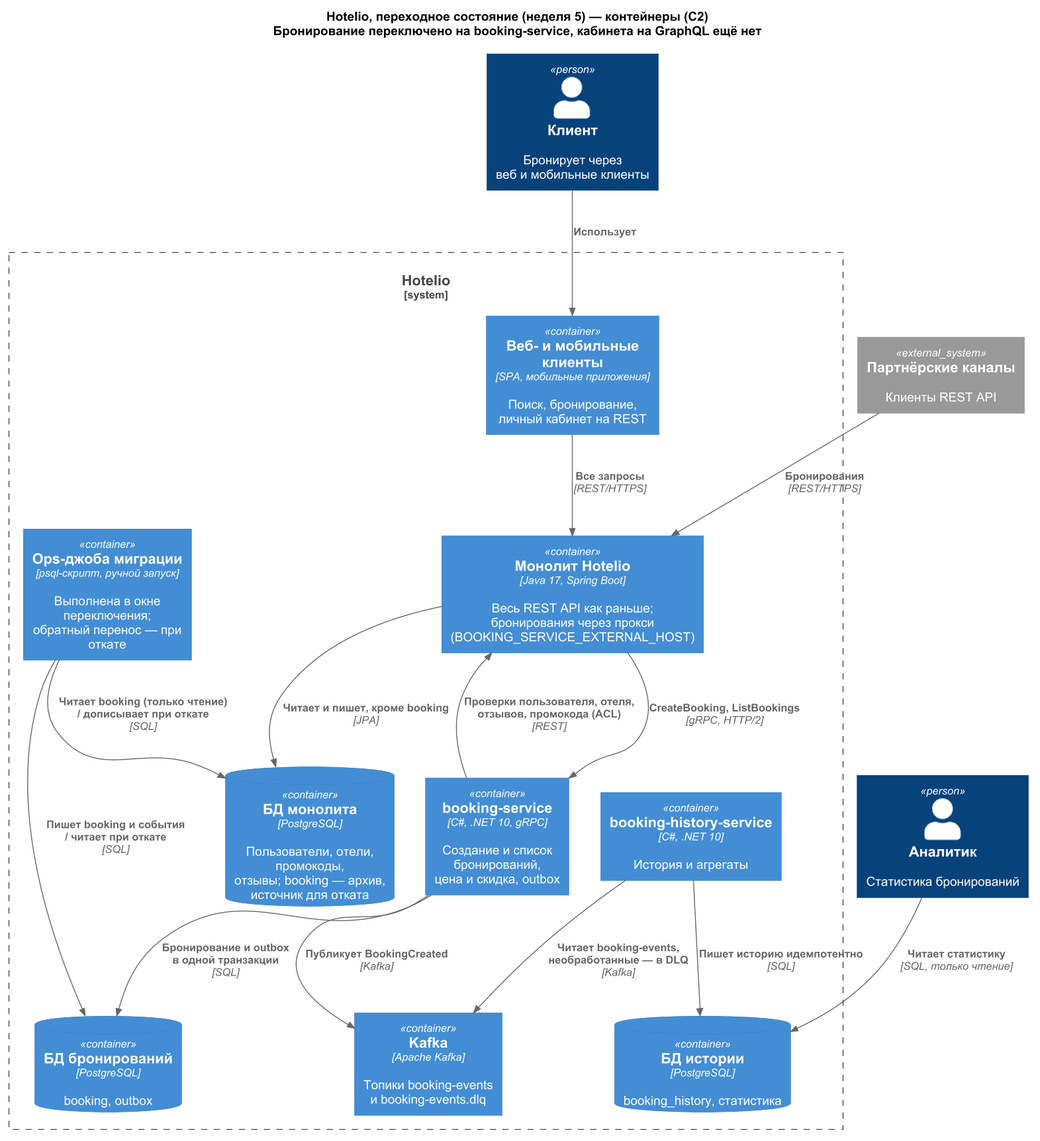
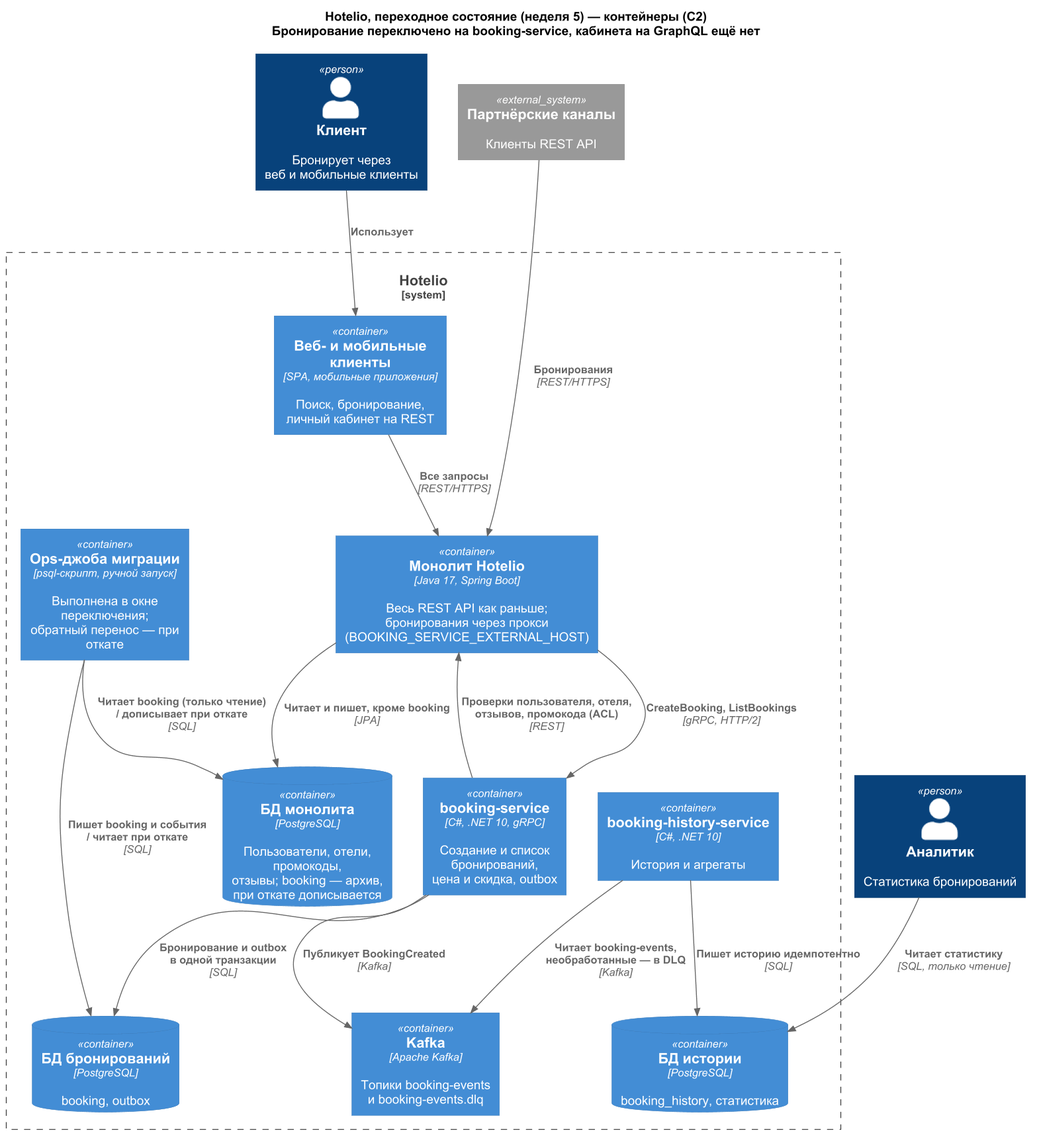
AI-LOG и схемы задания 1: решения автора по журналу, откат прокси через false, подписи без наложений

diff --git a/AI-LOG.md b/AI-LOG.md
@@ -6,20 +6,20 @@
 | :- | :- | :- |
 | Первый модуль | Согласился начать с бронирования: от него в монолите никто не зависит, а точка переключения уже есть — готовый gRPC-прокси | Разобрал код монолита, jar прокси и стенд, нашёл дефекты и расхождения с описанием (Н1–Н11 в ADR-001), подготовил ADR и схемы C4 |
 | Стек и сервисы | Выбрал C#/.NET вместо предложенной ИИ Java | Написал booking-service и booking-history-service, доработал регресс курса |
-| Перенос данных | Выбрал перенос ops-джобой с остановкой записи — по своему опыту переноса данных — и откат той же джобой; задал критерии отката по доле ошибок и задержке относительно базовой линии | Нашёл, что монолит не заполняет дату бронирования; написал джобу со сверкой и учения по переключению и откату |
-| События | Согласился на transactional outbox; перевёл dead letter из таблицы в топик Kafka и попросил очистку outbox отдельным фоновым процессом | Предложил outbox, написал отправку в Kafka, сервис истории, DLQ и очистку |
+| Перенос данных | Выбрал перенос ops-джобой с остановкой записи — по своему опыту переноса данных — и откат той же джобой; отклонил CDC: для отката понадобился бы второй поток в обратную сторону; задал критерии отката по доле ошибок и задержке относительно базовой линии | Нашёл, что монолит не заполняет дату бронирования; написал джобу со сверкой и учения по переключению и откату |
+| События | Согласился на transactional outbox; перевёл dead letter из таблицы в топик Kafka; решил чистить outbox отдельным фоновым процессом | Предложил outbox, написал отправку в Kafka, сервис истории, DLQ и очистку |
 | Тесты и пайплайн | Задал набор тестов и устройство пайплайна по своему рабочему проекту: юнит-тесты, интеграционные тесты, регресс курса как API-тесты в пайплайне, ручной выпуск в prod; выбрал Shouldly, Moq и AutoFixture | Предложил поднимать зависимости интеграционных тестов через Testcontainers и отстоял это в споре; написал тесты, джобы и скрипты проверок, выполнил прогоны |
 | Личный кабинет | Попросил перепроверить, правда ли у отелей нет названий, и выбрал `null` вместо выдуманных значений; выбрал `@override` по схеме задания | Проверил данные монолита, нашёл, что шлюз сам не передаёт заголовки подграфам; написал шлюз, три подграфа и тесты |
-| Kubernetes и Istio | Согласился с `failoverPriority` после того, как ИИ объяснил, почему повтор внутри subset v1 не переведёт запрос на v2 | Написал Helm-чарты, манифесты Istio и проверочные скрипты, выполнил прогоны |
-| Проверка | Разобрал работу на вопросах, оспорил спорные решения и формулировки, поручил ревью и отвечает за принятые решения | Объяснял решения, провёл ревью другими моделями, сверил отчёты с кодом и логами |
+| Kubernetes и Istio | Принял fallback через `failoverPriority` по результату на стенде: при погашенной v1 запросы обслуживает v2, а классический вариант с повтором внутри subset v1 отдаёт 503 | Написал Helm-чарты, манифесты Istio и проверочные скрипты, выполнил прогоны |
+| Проверка | Разобрал работу на вопросах, оспорил спорные решения и формулировки, поручил ревью на ошибки, глазами ревьюера курса и на качество кода; отвечает за принятые решения | Объяснял решения, провёл ревью другими моделями, сверил отчёты с кодом и логами |
 
-Например, Святослав не согласился оставить описанным ограничением то, что через прокси монолита `GET /api/bookings?userId=` отдаёт бронирования всех пользователей, и потребовал исправить: теперь публичный список отдаёт только свои бронирования, а полный список — служебный метод с токеном администратора и постраничным выводом. Он же решил хранить сообщения, которые не удалось обработать, в топике Kafka, а не в таблице: при выносе следующих модулей это общий приём, и переделывать не придётся.
+Например, Святослав не согласился оставить описанным ограничением то, что через прокси монолита `GET /api/bookings?userId=` отдаёт бронирования всех пользователей, и предложил решение: пользователь получает только свои бронирования, а полный список — отдельный служебный метод с проверкой прав и постраничным выводом. Так и сделано: служебный gRPC-метод `ListAllBookings` с токеном администратора и пагинацией, регресс читает им полный список и проверяет отказ без токена. Он же решил хранить сообщения, которые не удалось обработать, в топике Kafka, а не в таблице: при выносе следующих модулей это общий приём, и переделывать не придётся.
 
 Использованы Claude Opus 5.5 для основной работы, Codex и Qwen для части доработки; Fable 5.1 и Codex — для дополнительного ревью. Проверка другой моделью не является независимой экспертизой. Агенты также поднимали стенды и снимали логи и скриншоты для `results`.
 
 ## Проработка через объяснение и возражения
 
-После реализации ИИ составил 36 вопросов по заданиям: сначала объяснял, как и почему сделано, затем спрашивал суждение. Святослав отвечал голосом своими словами, оспаривал решения и сами вопросы, если они были сформулированы неясно.
+После реализации ИИ составил 36 вопросов по заданиям. По требованию Святослава каждый вопрос сначала объяснял, как и почему сделано, и только затем спрашивал суждение: так проверялись причины выбора, а не память на детали кода. Святослав отвечал голосом своими словами и оспаривал как решения, так и сами вопросы.
 
 | Инициатива Святослава | Изменение решения |
 | :- | :- |
@@ -30,25 +30,23 @@
 | Настоял, чтобы регресс курса и проверки на стенде были не скриптами сбоку, а частью пайплайна | Регресс курса стал отдельной тестовой джобой `test:api`: выкладка в staging ждёт её вместе с остальными тестами; учения на стенде — ручные джобы `ops:*` |
 | Попросил интеграционные тесты, Shouldly и имена джоб, как в своём рабочем проекте; предлагал поднимать PostgreSQL и Kafka для тестов сервисами пайплайна, но после спора согласился на Testcontainers: тесты нарочно ломают зависимости (замораживают Kafka, подсовывают неверный пароль) и на общих сервисах мешали бы друг другу | Интеграционные тесты outbox на Testcontainers, юнит-тесты на Shouldly, джобы `test:unit`, `test:integration`, `test:api` |
 | Предложил покрыть тестом путь, который ИИ предлагал оставить без теста: БД истории недоступна дольше повторов | Тест проверяет, что событие не подтверждено и читается снова |
-| Спросил, почему пользователи и отели берутся у монолита по REST, а не из Kafka | Оставили REST, как требует задание: проверки при бронировании нужны на текущий момент |
-| Попросил проверить код на слишком подробные комментарии | Описания классов сокращены до одной-двух строк |
-| Предложил описать в ADR команду через Kafka с сагой как альтернативу, спросил, почему базовая линия — неделя, предложил чинить в пределах окна, а отставание истории закрывать хотфиксом | В ADR-001 — новые альтернативы, критерии отката с SLI (доля 5xx, p95), ясное объяснение пустых дат |
-| Спросил, чем dead letter в таблице лучше топика, и решил перевести его в DLQ-топик Kafka; попросил фоновую очистку outbox, спросил про матрицу покрытия тестами | DLQ-топик `booking-events.dlq`, отдельный процесс очистки опубликованных событий, тесты на оба, таблица «что чем проверяется» в README задания 2 |
-| Возразил против значения переключателя прокси «по умолчанию» в docker-compose | Значение задано в `.env`, без неявной подстановки |
-| Не согласился оставлять как ограничение то, что `GET /api/bookings?userId=` отдаёт бронирования всех пользователей, — попросил починить, а не описать | Публичный список возвращает только бронирования запрошенного пользователя, как монолит; полный список отдаёт служебный gRPC-метод `ListAllBookings` с токеном и пагинацией (`booking-admin.proto`), регресс читает список им и проверяет отказ без токена |
+| Предложил описать в ADR команду через Kafka с сагой как альтернативу; потребовал обосновать базовую линию в неделю; предложил сначала прогнать перенос вхолостую, при упавшем регрессе чинить в пределах окна, а не откатывать сразу, и отставание истории закрывать хотфиксом без отката; оспорил, почему пустые даты закрываются обходом, а не исправлением | В ADR-001 — альтернатива с сагой; критерии отката по этапам (репетиция до окна, окно, первые сутки) с SLI — доля 5xx и p95 — и обоснованием недели; объяснение пустых дат переписано: у старых записей исходной даты нет, и исправление монолита её не вернёт |
+| Решил вынести очистку outbox в отдельный фоновый процесс; попросил матрицу покрытия тестами | Процесс очистки опубликованных событий с тестом; тест на DLQ-топик; таблица «что чем проверяется» в README задания 2 |
+| Возразил против значения переключателя прокси «по умолчанию» в docker-compose: значение должно задаваться явно | Значение задано в `.env`, без неявной подстановки |
 | Настоял на готовых библиотеках вместо самописных тестовых заготовок: их знают другие разработчики, и их не нужно поддерживать | Монолит в юнит-тестах подменяется через Moq, случайные тестовые данные даёт AutoFixture; самописные заглушки удалены |
+| Перед сдачей поручил отдельное ревью качества кода и потребовал убрать слишком подробные комментарии | Описания классов сокращены до одной-двух строк; настройки сервисов собраны в классы options, крупные классы разделены по ответственности, тесты доставки используют общий стенд |
 
 ИИ предложил заменить самописные ограничитель запросов к монолиту и кеш отелей в GraphQL на `p-limit` и `lru-cache` — Святослав согласился.
 
-ИИ сделал каркас решения и рутинную реализацию: код, тесты, скрипты и прогоны. Святослав вёл работу как владелец продукта: выбирал решения на развилках, спорил с теми, что считал неверными, и требовал объяснений там, где реализация была непонятна, — после этого её переделывали. На вопросах он своими словами объяснил стратегию переноса, outbox и доставку событий, защиту от дублей, пайплайн и выпуск в prod.
+ИИ сделал каркас решения и рутинную реализацию: код, тесты, скрипты и прогоны. Святослав вёл работу как владелец продукта: выбирал решения на развилках, спорил с теми, что считал неверными, требовал обоснований и добивался переделки, если они не убеждали. На вопросах он своими словами объяснил стратегию переноса, outbox и доставку событий, защиту от дублей, пайплайн и выпуск в prod.
 
 ## Сверка с заданием и ревью
 
-По поручению Святослава итоговую редакцию сверили с заданием и отдали на ревью другим моделям: на ошибки в коде, глазами ревьюера курса и на качество кода. Автор поручил внести обоснованные замечания: например, ошибки самой БД истории больше не уводят события в DLQ, а читаются снова; ответы подграфов не раскрывают клиенту внутренние ошибки; проверки Istio падают при неверном поведении. Не все замечания приняты: их проверяли по заданию и коду. Проверки другими моделями не гарантируют приёмку курса.
+По поручению Святослава итоговую редакцию сверили с заданием и отдали на ревью другим моделям: на ошибки в коде, глазами ревьюера курса и на качество кода. Автор поручил внести обоснованные замечания: например, ошибки самой БД истории больше не уводят события в DLQ, а читаются снова; ответы подграфов не раскрывают клиенту внутренние ошибки; проверки Istio падают при неверном поведении. Не все замечания приняты: их проверяли по заданию и коду.
 
 ## Что ИИ добавил сверх задания
 
-Эти приёмы предложил ИИ; большинства из них в уроках спринта нет:
+Эти приёмы предложил ИИ:
 - transactional outbox и приём событий без дублей по `eventId` — событие не теряется и не удваивает статистику; dead letter (по решению Святослава — DLQ-топик Kafka) — сообщение, которое не удалось обработать, не останавливает чтение топика;
 - resilience handler .NET (Polly) — сервис не добивает медленный монолит; DbUp и команда `migrate` — схема БД создаётся до запуска сервиса; сквозной `x-request-id` — один запрос виден во всех логах;
 - в GraphQL — кеш отелей и предел запросов к монолиту поверх DataLoader, ограничение глубины запроса и числа алиасов (graphql-armor) — длинные и тяжёлые запросы не перегружают монолит и шлюз;
